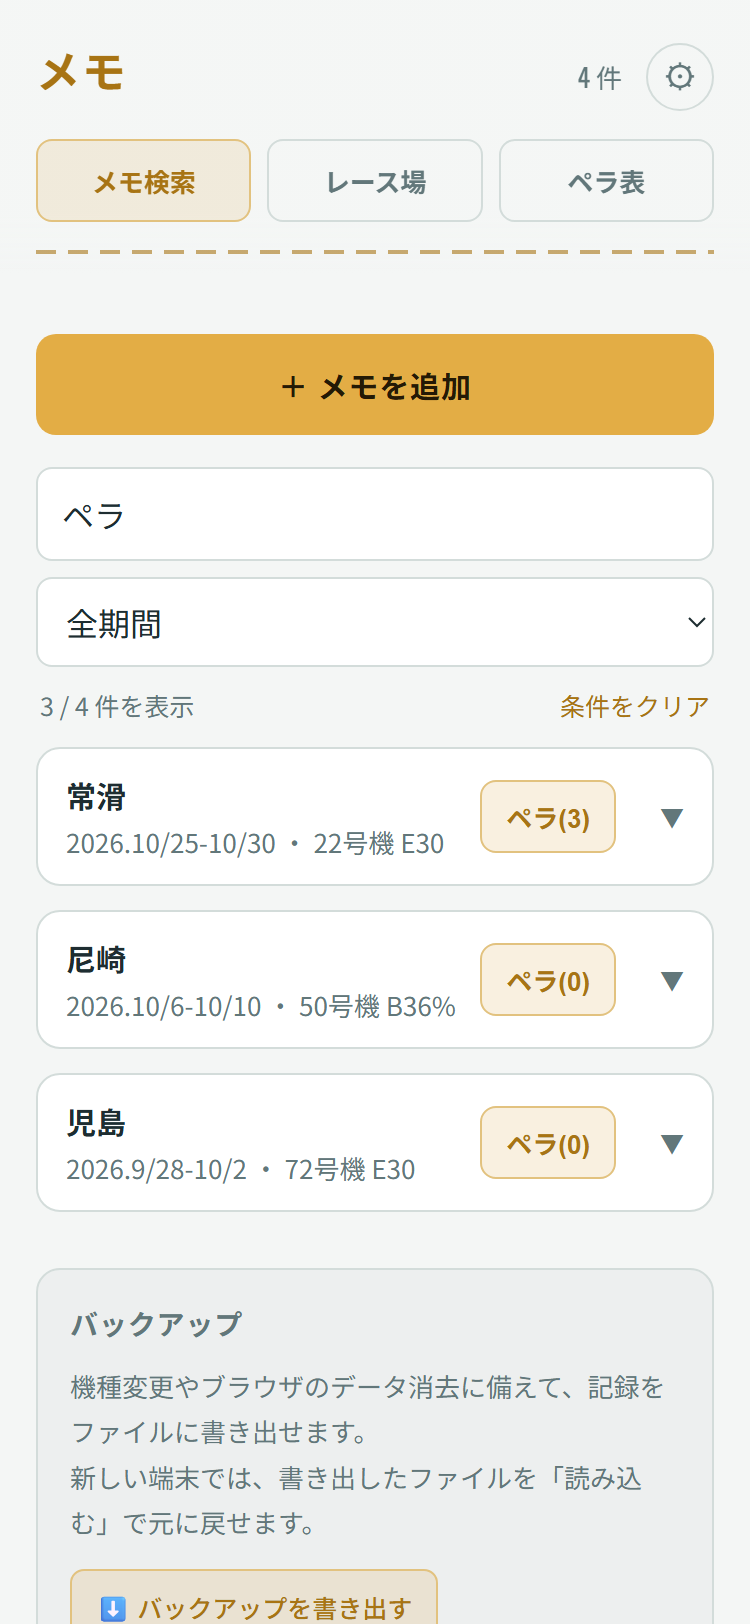
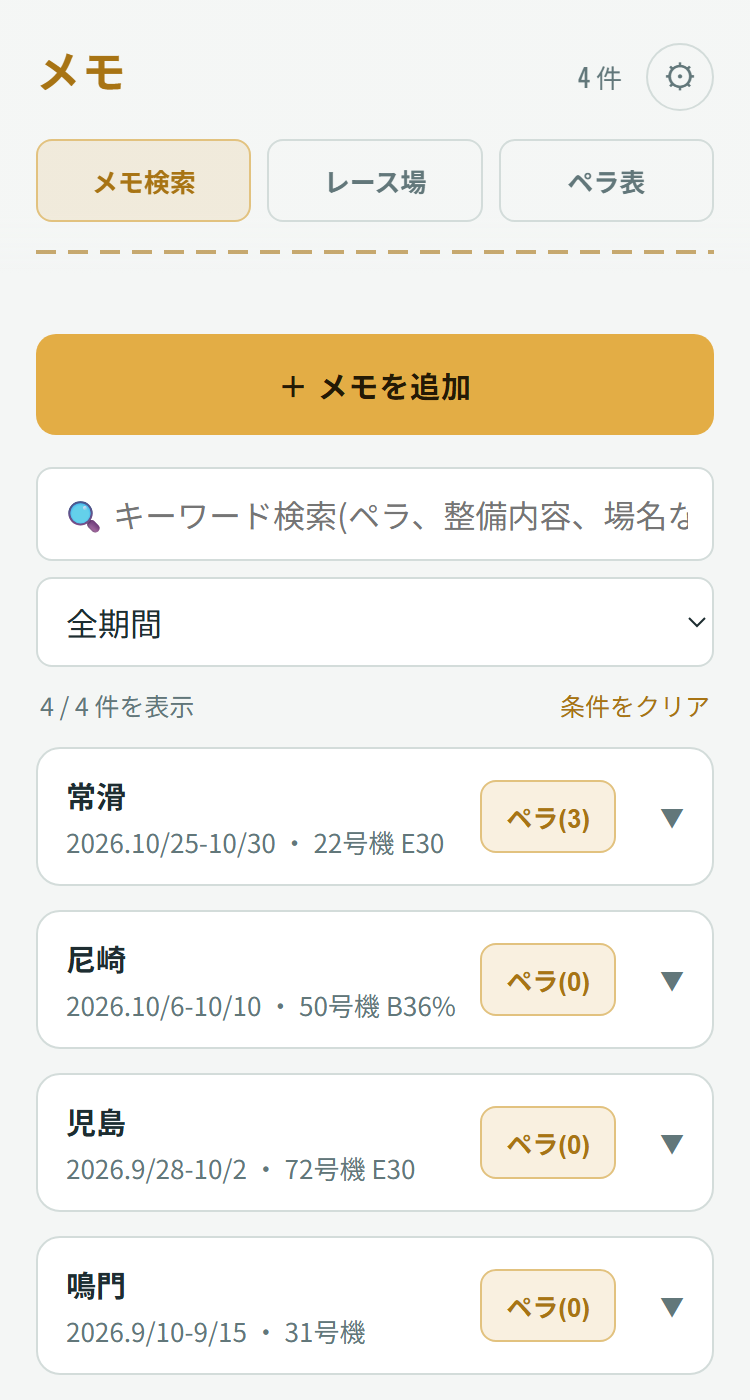
20261127 使い方ページを整理（3つのタブの使い方にまとめ、写真を追加）

diff --git a/race-log.html b/race-log.html
@@ -395,36 +395,35 @@
   </div>
 
   <div class="howto-sec">
-    <h3>2. メモを探す</h3>
+    <h3>2. 3つのタブの使い方</h3>
     <div class="howto-box"><b>A. 「メモ検索」</b>
       <ul><li>「キーワード検索」<br><span class="sub">ペラ・整備内容・レース場名などで絞り込む</span></li><li>「全期間」<br><span class="sub">検索期間を絞る</span></li><li>レース場のカードを押す</li></ul>
       <img class="howto-img" src="howto/03_search.png" alt="メモ検索の画面" loading="lazy"></div>
     <div class="howto-box"><b>B. 「レース場」</b>
       <ul><li>レース場の名前を押す</li><li>そのレース場のメモだけが並ぶ</li></ul>
       <img class="howto-img" src="howto/04_venue.png" alt="レース場の画面" loading="lazy"></div>
+    <div class="howto-box"><b>C. 「ペラ表」</b>
+      <ul><li>メモとは関係なく、ペラの位置を図で比べる</li><li>自分のペラや他の人のペラを、何個でも置ける</li><li>縦は高い・低い、横は捻・広い</li></ul>
+      <img class="howto-img" src="howto/06_prop_table.png" alt="ペラ表の画面" loading="lazy"></div>
   </div>
 
   <div class="howto-sec">
     <h3>3. ペラ情報（メモごとのペラ）</h3>
-    <ol><li>メモのカードの右にある「ペラ(0)」を押します。</li><li>図をタップして、その節で使ったペラを置きます。</li><li>見出しとメモを入れて、「保存する」を押します。</li><li>置いた丸は、長押ししてから動かせます。一覧の色の丸を押すと、色を変えられます。</li></ol>
+    <ol><li>メモのカードの右にある「ペラ(0)」を押します。</li></ol>
+    <img class="howto-img" src="howto/05a_card.png" alt="ペラのボタンがあるメモのカード" loading="lazy">
+    <ol start="2"><li>図をタップして、その節で使ったペラを置きます。</li><li>見出しとメモを入れて、「保存する」を押します。</li><li>置いた丸は、長押ししてから動かせます。一覧の色の丸を押すと、色を変えられます。</li></ol>
     <img class="howto-img" src="howto/05_prop_memo.png" alt="メモごとのペラ情報の画面" loading="lazy">
   </div>
 
   <div class="howto-sec">
-    <h3>4. ペラ表（ペラ全体の比較）</h3>
-    <ol><li>「ペラ表」タブを開きます。</li><li>メモとは関係なく、自分のペラや他の人のペラを、何個でも置いて比べられます。</li><li>縦は高い・低い、横は捻・広いです。位置を見比べて、振り返りに使います。</li></ol>
-    <img class="howto-img" src="howto/06_prop_table.png" alt="ペラ表の画面" loading="lazy">
-  </div>
-
-  <div class="howto-sec">
-    <h3>5. バックアップ（とても大切）</h3>
+    <h3>4. バックアップ（とても大切）</h3>
     <p>メモは、この端末の中だけに入っています。ブラウザのデータを消したり、機種変更をしたりすると、消えることがあります。</p>
     <ol><li>「メモ検索」の一番下で「バックアップを書き出す」を押します。</li><li>できたファイルを、「ファイル」アプリやiCloudに保存します。</li><li>戻すときは「バックアップを読み込む」を押します。</li></ol>
     <img class="howto-img" src="howto/07_backup.png" alt="バックアップのボタン" loading="lazy">
   </div>
 
   <div class="howto-sec">
-    <h3>6. ホーム画面に追加する</h3>
+    <h3>5. ホーム画面に追加する</h3>
     <p>ホーム画面に追加すると、アプリのように、ワンタッチで開けます。こちらの使い方をおすすめします。</p>
     <div class="howto-box"><b>iPhone の場合</b>
       <ol><li>Safari で、このアプリを開きます。</li><li>画面の下の共有ボタン（四角から矢印が出たマーク）を押します。</li><li>「ホーム画面に追加」を選びます。</li><li>右上の「追加」を押します。</li></ol></div>
